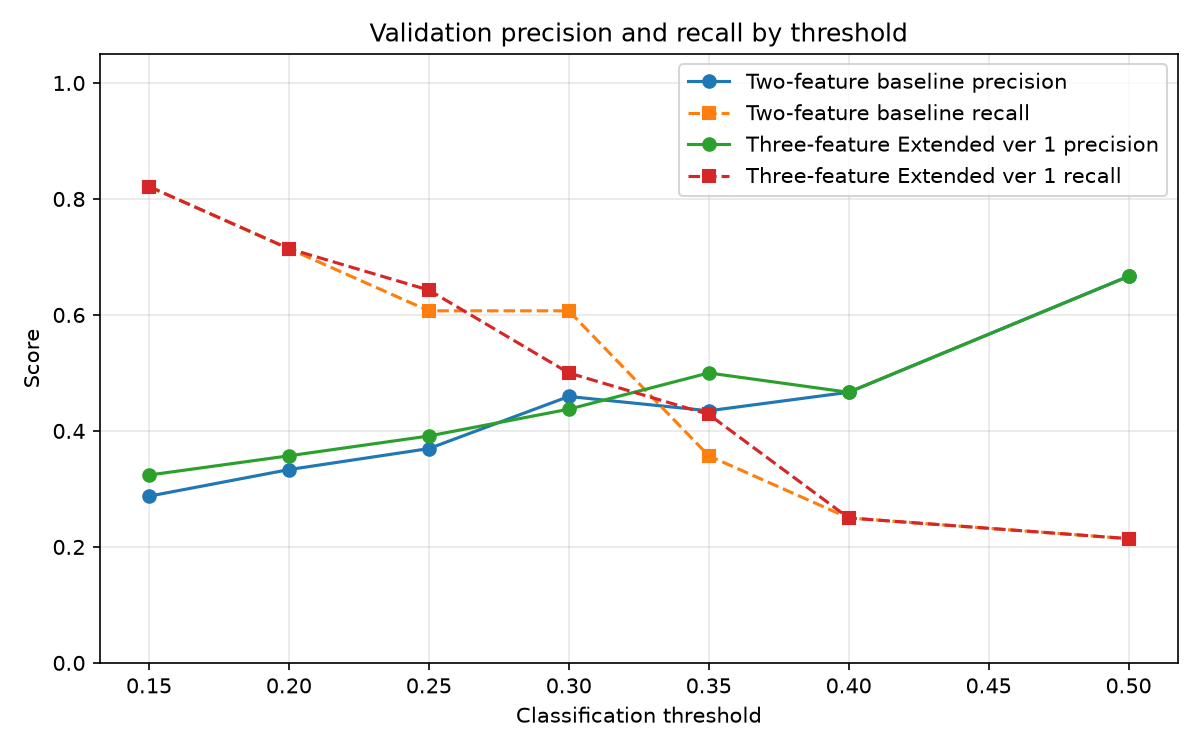
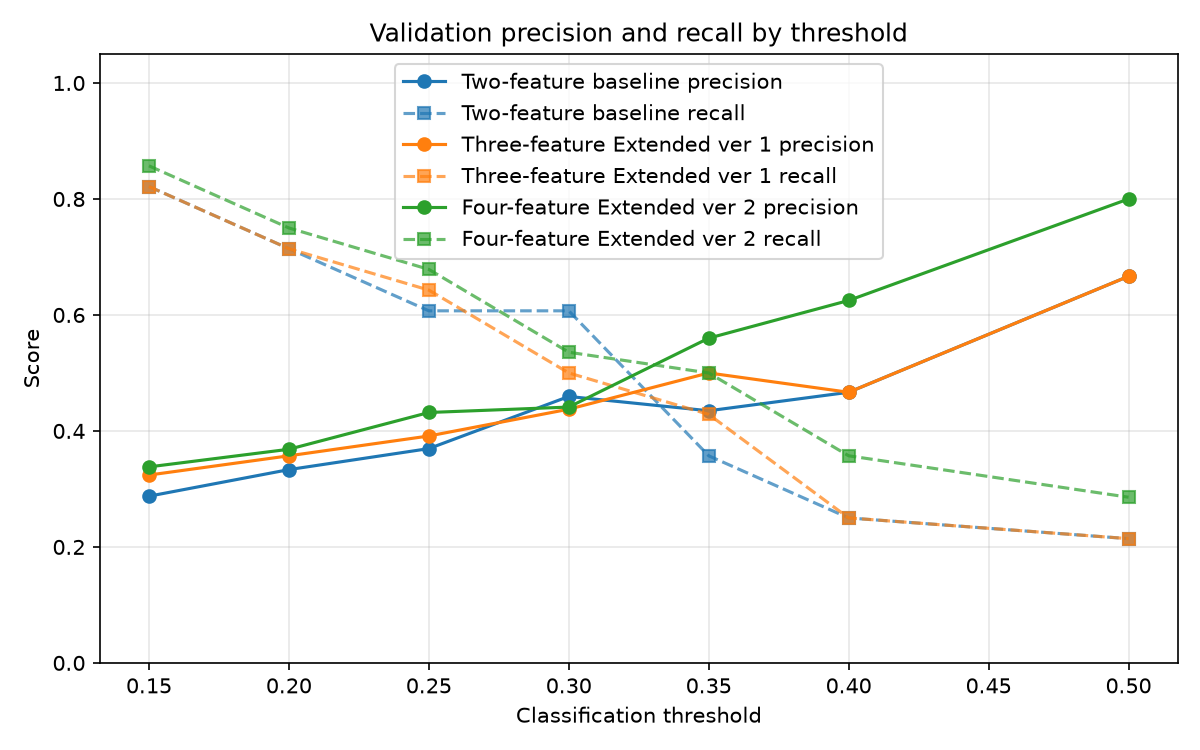
feat(model): add previous default feature experiment

diff --git a/src/main.py b/src/main.py
@@ -2,6 +2,7 @@ from src.data import load_data, print_audit
 from src.model import (
     BASELINE_FEATURES,
     EXTENDED_FEATURES_VER_1,
+    EXTENDED_FEATURES_VER_2,
     FINAL_TEST_SIZE,
     MODEL_FILE,
     SELECTED_FEATURES,
@@ -32,10 +33,12 @@ def main():
     print_audit(df) # print dataset audit
 
     baseline_results = run_model(df, BASELINE_FEATURES)
-    extended_results = run_model(df, EXTENDED_FEATURES_VER_1)
+    extended__ver_1_results = run_model(df, EXTENDED_FEATURES_VER_1)
+    extended_ver_2_results = run_model(df, EXTENDED_FEATURES_VER_2)
     selected_results = run_model(df, SELECTED_FEATURES, MODEL_FILE)
     print('\nSelected baseline features:', BASELINE_FEATURES)
-    print('Extended features:', EXTENDED_FEATURES_VER_1)
+    print('Extended ver 1 features:', EXTENDED_FEATURES_VER_1)
+    print('Extended ver 2 features:', EXTENDED_FEATURES_VER_2)
     print('Selected features:', SELECTED_FEATURES)
     print(f'Selected review threshold: {SELECTED_THRESHOLD:.2f}')
     print(
@@ -47,9 +50,9 @@ def main():
     
     report('\n## Majority-class reference on validation:', baseline_results['validation_reference'])
     report('\n## Two-feature baseline on validation:', baseline_results['validation'])
-    report('\n## Extended model on validation:', extended_results['validation'])
-    # report('\n## Two-feature baseline on final test:', baseline_results['final'])
-    # report('\n## Extended model on final test:', extended_results['final'])
+    report('\n## Extended ver 1 model on validation:', extended__ver_1_results['validation'])
+    report('\n## Extended ver 2 model on validation:', extended_ver_2_results['validation'])
+    report('\n## Selected model on final test:', selected_results['final'])
     print(f'\n ~~ Selected model saved: ~~\n {MODEL_FILE}')
 
 

diff --git a/src/threshold_analysis.py b/src/threshold_analysis.py
@@ -8,6 +8,7 @@ from src.data import load_data
 from src.model import (
     BASELINE_FEATURES,
     EXTENDED_FEATURES_VER_1,
+    EXTENDED_FEATURES_VER_2,
     build_pipeline,
     split_data_three_way,
     threshold_analysis,
@@ -25,14 +26,17 @@ FIGURE_FILE = (
 def plot_threshold_metrics(results_by_model):
     """Save validation precision and recall against each tested threshold."""
     FIGURE_FILE.parent.mkdir(parents=True, exist_ok=True)
+    colors = ['#1f77b4', '#ff7f0e', '#2ca02c', '#d62728', '#9467bd']
 
     figure, axis = plt.subplots(figsize=(8, 5))
     for label, records in results_by_model.items():
+        i = list(results_by_model.keys()).index(label)
+        base_color = colors[i % len(colors)]
         thresholds = [item["threshold"] for item in records]
         precision = [item["precision"] for item in records]
         recall = [item["recall"] for item in records]
-        axis.plot(thresholds, precision, marker="o", label=f"{label} precision")
-        axis.plot(thresholds, recall, marker="s", linestyle="--", label=f"{label} recall")
+        axis.plot(thresholds, precision, marker="o", color=base_color, label=f"{label} precision")
+        axis.plot(thresholds, recall, marker="s", linestyle="--", color=base_color, alpha=0.7, label=f"{label} recall")
 
     axis.set(
         title="Validation precision and recall by threshold",
@@ -54,6 +58,7 @@ def main():
     for label, features in (
         ("Two-feature baseline", BASELINE_FEATURES),
         ("Three-feature Extended ver 1", EXTENDED_FEATURES_VER_1),
+        ("Four-feature Extended ver 2", EXTENDED_FEATURES_VER_2),
     ):
         (
             X_train,

diff --git a/src/select_model.py b/src/select_model.py
@@ -1,4 +1,12 @@
-from src.model import EXTENDED_FEATURES_VER_1, BASELINE_FEATURES, split_data_three_way, build_pipeline, evaluate, threshold_analysis
+from src.model import (
+    EXTENDED_FEATURES_VER_1,
+    EXTENDED_FEATURES_VER_2,
+    BASELINE_FEATURES,
+    split_data_three_way,
+    build_pipeline,
+    evaluate,
+    threshold_analysis,
+)
 import pandas as pd
 
 MIN_VALIDATION_RECALL = 0.60
@@ -8,7 +16,11 @@ def select_configuration(df):
 
     candidates = []
 
-    for features in (BASELINE_FEATURES, EXTENDED_FEATURES_VER_1):
+    for features in (
+        BASELINE_FEATURES,
+        EXTENDED_FEATURES_VER_1,
+        EXTENDED_FEATURES_VER_2,
+    ):
         (
             X_train,
             X_validation,

diff --git a/src/applicant_example.py b/src/applicant_example.py
@@ -8,6 +8,7 @@ EXAMPLE_APPLICATION = {
     "credit_score": 680,
     "debt_to_income_ratio": 0.32,
     "missed_payments_24m": 0,
+    "previous_default_flag": 0,
     "loan_to_value_pct": 80.0,
 }
 
@@ -33,6 +34,7 @@ def main():
     print(f"credit_score={EXAMPLE_APPLICATION['credit_score']}")
     print(f"debt_to_income_ratio={EXAMPLE_APPLICATION['debt_to_income_ratio']:.2f}")
     print(f"missed_payments_24m={EXAMPLE_APPLICATION['missed_payments_24m']}")
+    print(f"previous_default_flag={EXAMPLE_APPLICATION['previous_default_flag']}")
     print(f"loan_to_value_pct={EXAMPLE_APPLICATION['loan_to_value_pct']:.1f}")
     print(f"Repayment-difficulty class-1 score: {score:.3f}")
     print("\n______DECISION______")

diff --git a/tests/test_validation.py b/tests/test_validation.py
@@ -12,6 +12,7 @@ from src.decisions import (
 from src.model import (
     BASELINE_FEATURES,
     EXTENDED_FEATURES_VER_1,
+    EXTENDED_FEATURES_VER_2,
     run_model,
     split_data_three_way,
 )
@@ -117,6 +118,12 @@ class ModelSplitTests(unittest.TestCase):
         self.assertEqual(
             EXTENDED_FEATURES_VER_1,
             BASELINE_FEATURES + ['missed_payments_24m'],
+        )
+
+    def test_extended_ver_2_adds_previous_default_flag(self):
+        self.assertEqual(
+            EXTENDED_FEATURES_VER_2,
+            EXTENDED_FEATURES_VER_1 + ['previous_default_flag'],
         )
 
     def test_reusable_model_runner_returns_all_evaluation_partitions(self):

diff --git a/src/model.py b/src/model.py
@@ -15,8 +15,9 @@ from src.data import TARGET
 
 BASELINE_FEATURES = ['credit_score', 'debt_to_income_ratio',]
 EXTENDED_FEATURES_VER_1 = BASELINE_FEATURES + ['missed_payments_24m']
+EXTENDED_FEATURES_VER_2 = EXTENDED_FEATURES_VER_1 + ['previous_default_flag']
 THRESHOLDS_TO_TEST = [0.15, 0.20, 0.25, 0.30, 0.35, 0.40, 0.50]
-SELECTED_FEATURES = EXTENDED_FEATURES_VER_1
+SELECTED_FEATURES = EXTENDED_FEATURES_VER_2
 SELECTED_THRESHOLD = 0.25
 
 MODEL_FILE = Path(__file__).resolve().parents[1] / 'models' / 'selected_model.joblib'

diff --git a/DECISION_LOGIC.md b/DECISION_LOGIC.md
@@ -365,14 +365,13 @@ Status: HUMAN REVIEW REQUIRED
 
 ### Model Comparison Table:
 
-| Model                          | Features                       | Accuracy | Precision | Recall | F1    | ROC-AUC | Average precision |
-| ------------------------------ | ------------------------------ | -------- | --------- | ------ | ----- | ------- | ----------------- |
-| Baseline (not three-way split) | credit score + DTI             | 0.750    | 0.353     | 0.171  | 0.231 | 0.691   | —                 |
-| Baseline (three-way split)     | credit score + DTI             | 0.805    | 0.667     | 0.214  | 0.324 | 0.731   | 0.486             |
-| Extended ver 1                 | Baseline + missed_payments_24m | 0.805    | 0.667     | 0.214  | 0.324 | 0.750   | 0.530             |
-|                                |                                |          |           |        |       |         |                   |
-|                                |                                |          |           |        |       |         |                   |
-|                                |                                |          |           |        |       |         |                   |
+| Model                          | Features                               | Accuracy | Precision | Recall | F1    | ROC-AUC | Average precision |
+| ------------------------------ | -------------------------------------- | -------- | --------- | ------ | ----- | ------- | ----------------- |
+| Baseline (not three-way split) | credit score + DTI                     | 0.750    | 0.353     | 0.171  | 0.231 | 0.691   | —                 |
+| Baseline (three-way split)     | credit score + DTI                     | 0.805    | 0.667     | 0.214  | 0.324 | 0.731   | 0.486             |
+| Extended ver 1                 | Baseline + missed_payments_24m         | 0.805    | 0.667     | 0.214  | 0.324 | 0.750   | 0.530             |
+| Extended ver 2                 | Extended ver 1 + previous_default_flag | 0.734    | 0.432     | 0.679  | 0.528 | 0.775   | 0.583             |
+|                                |                                        |          |           |        |       |         |                   |
 
 ## Extended ver 1
 
@@ -393,24 +392,42 @@ The additional feature appears to help the model rank applicants by repayment-di
 
 Because the system is intended to support human review rather than automatically approve or decline applications, recall is important: missing a genuine repayment-difficulty case may be more serious than referring an applicant for additional review. However, the threshold must also avoid an excessive number of false-positive referrals.
 
+## Extended ver 2: previous default flag
+
+The second extension adds `previous_default_flag` to the current three-feature model. This is a plausible historical credit feature because the field name indicates a prior default, but its exact reporting window and whether the record predates assessment must be confirmed.
+
+On the fixed validation partition, the feature increased ROC-AUC from `0.750` to `0.775` and average precision from `0.530` to `0.583`. At the `0.25` threshold, validation recall increased from `0.643` to `0.679`, precision from `0.391` to `0.432`, and F1 from `0.486` to `0.528`. The candidate therefore meets the existing recall objective and is provisionally selected for final-test evaluation. These results are validation evidence, not proof of real-world performance.
+
+### Extended ver 2 threshold table
+
+| Threshold | Precision | Recall | F1    | False positives | False negatives |
+| --------- | --------- | ------ | ----- | --------------- | --------------- |
+| 0.15      | 0.338     | 0.857  | 0.485 | 47              | 4               |
+| 0.20      | 0.368     | 0.750  | 0.494 | 36              | 7               |
+| 0.25      | 0.432     | 0.679  | 0.528 | 25              | 9               |
+| 0.30      | 0.441     | 0.536  | 0.484 | 19              | 13              |
+| 0.35      | 0.560     | 0.500  | 0.528 | 11              | 14              |
+| 0.40      | 0.625     | 0.357  | 0.455 | 6               | 18              |
+| 0.50      | 0.800     | 0.286  | 0.421 | 2               | 20              |
+
 ### Validation-based selection decision
 
 #### `src/select_model.py` applies the following rules:
 
 1. Keep thresholds with recall of at least 0.60.
 2. Among those thresholds, select the highest threshold, reducing referrals while meeting the recall objective.
-3. Compare the baseline and extended candidates using validation average precision.
+3. Compare the baseline and both extended candidates using validation average precision.
 4. If average precision is tied, prefer the simpler feature set.
 
 #### Using this rule:
 
 - The baseline selected threshold is `0.30`, with validation recall `0.607`.
 - The extended model selected threshold is `0.25`, with validation recall `0.643`.
-- The extended model is currently selected because its validation average precision is `0.530`, compared with `0.486` for the baseline.
+- Extended ver 2 is currently selected because its validation average precision is `0.583`, compared with `0.530` for extended ver 1 and `0.486` for the baseline.
 
 **The current selected applicant-scoring configuration is therefore:**
 
-- Features: `credit_score`, `debt_to_income_ratio`, `missed_payments_24m`
+- Features: `credit_score`, `debt_to_income_ratio`, `missed_payments_24m`, `previous_default_flag`
 - Review/classification threshold: `0.25`
 - Saved artefact: `models/selected_model.joblib`
 

diff --git a/DEVELOPMENT_LOG.md b/DEVELOPMENT_LOG.md
@@ -28,4 +28,5 @@
 | 2026-11-03 | [ec42107](https://github.com/LoisClinton/mortgage_project/commit/ec4210786a5a05aacde69deb54173fe9192008ad) | feat: plot validation precision and recall by classification thresholds on graph `DEVELOPMENT_LOG.md`.                                                                                                                                  | `python3 -m unittest discover -s tests -v` — 15 tests passed.               | Recorded automatically after the commit for traceability and reproducible development evidence.                                                                                                                                                                                    |
 | 2026-11-03 | [21c83d7](https://github.com/LoisClinton/mortgage_project/commit/21c83d72f0510c5d311b5a1a64060a05708bf9e0) | feat: plot validation precision and recall by classification thresholds on graph `DEVELOPMENT_LOG.md`, `README.md`, `reports/figures/threshold_precision_recall.png`, `requirements.txt`, `src/threshold_analysis.py`.                  | `python3 -m unittest discover -s tests -v` — 15 tests passed.               | For analysis of precision and recall by classification thresholds.                                                                                                                                                                                                                 |
 | 2026-11-03 | [3e95c6a](https://github.com/LoisClinton/mortgage_project/commit/3e95c6a5ccc305bce84857c975e767ccd736aee3) | feat: select feature set and cutoff from validation evidence `DEVELOPMENT_LOG.md`, `src/select_model.py`.                                                                                                                               | `python3 -m unittest discover -s tests -v` — 15 tests passed.               | To have a reproducible, evidence-based model-selection procedure instead of a manually chosen cutoff.                                                                                                                                                                              |
+| 2026-11-03 | [ca24733](https://github.com/LoisClinton/mortgage_project/commit/ca24733429c843b73bc53c97ce9c941517808aba) | feat: implement mortgage-specific review priorities and validation `DECISION_LOGIC.md`, `DEVELOPMENT_LOG.md`, `README.md`, `src/applicant_example.py`, `src/decisions.py`, `src/main.py`, `src/model.py`, `src/select_model.py`,....    | `python3 -m unittest discover -s tests -v` — 15 tests passed.               | To have predefined rules for a hybrid advisory system.                                                                                                                                                                                                                             |
 | [date]     | [link]()                                                                                                   | [example text]                                                                                                                                                                                                                          | [output]                                                                    | [reason]                                                                                                                                                                                                                                                                           |
